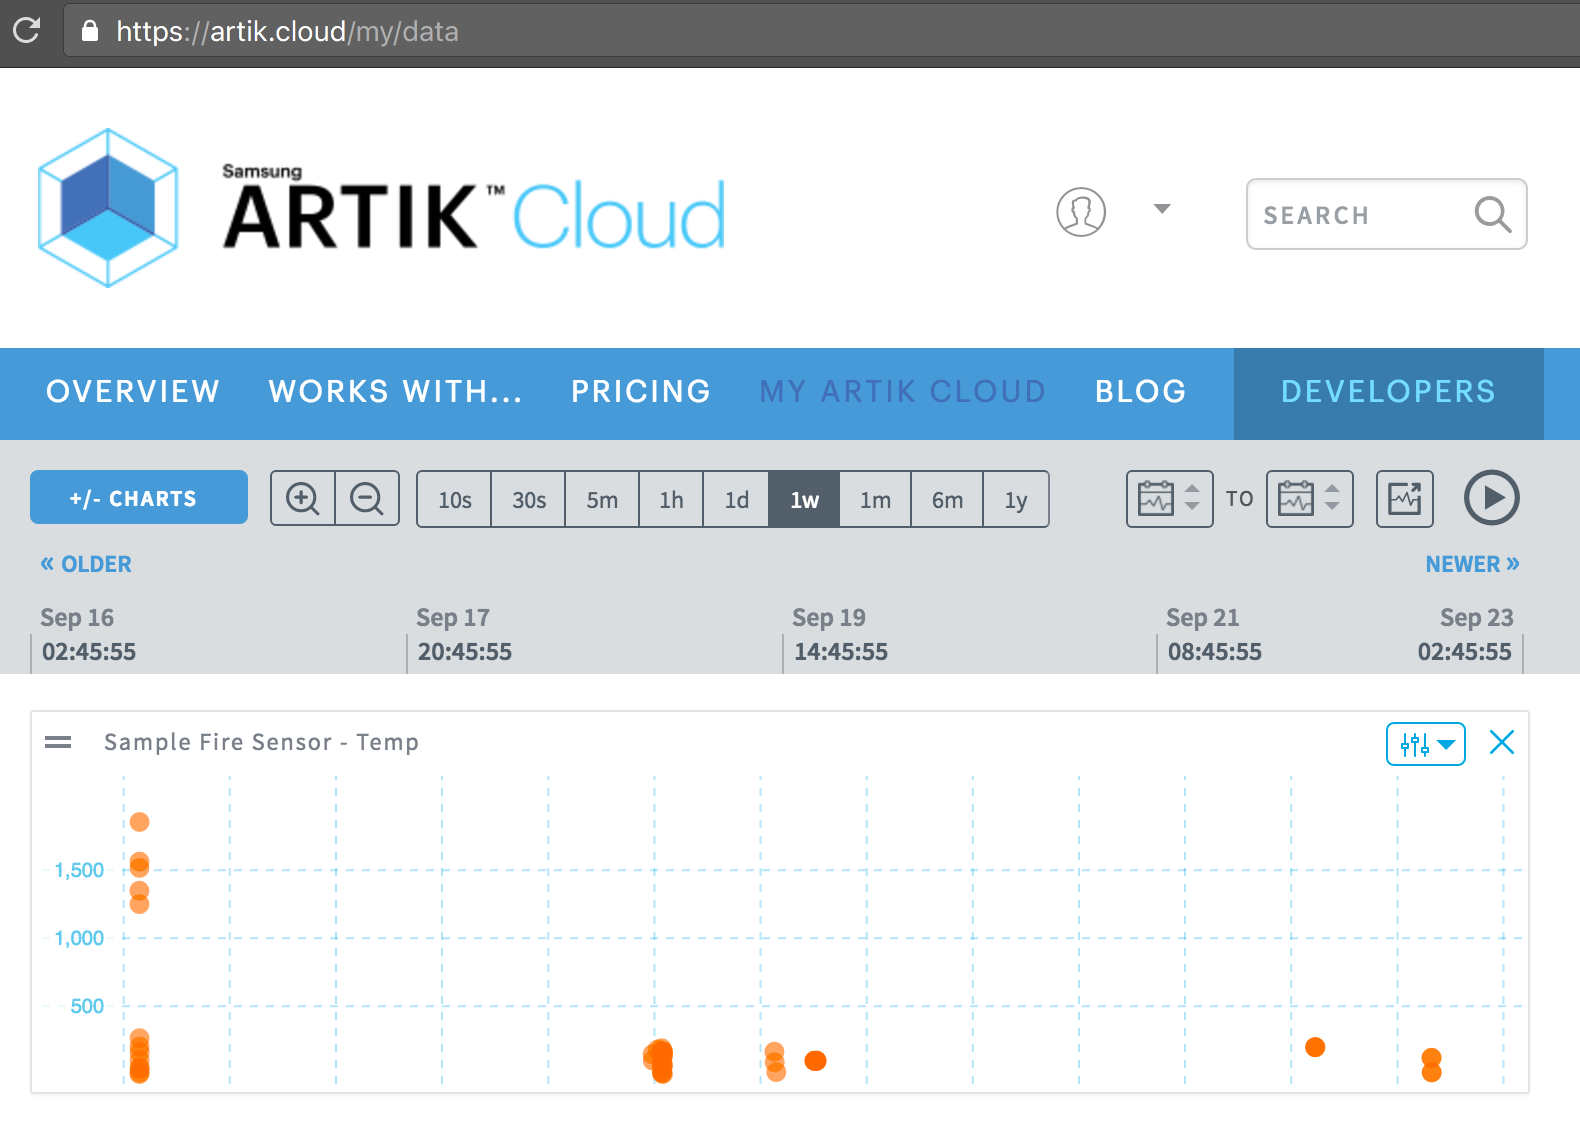
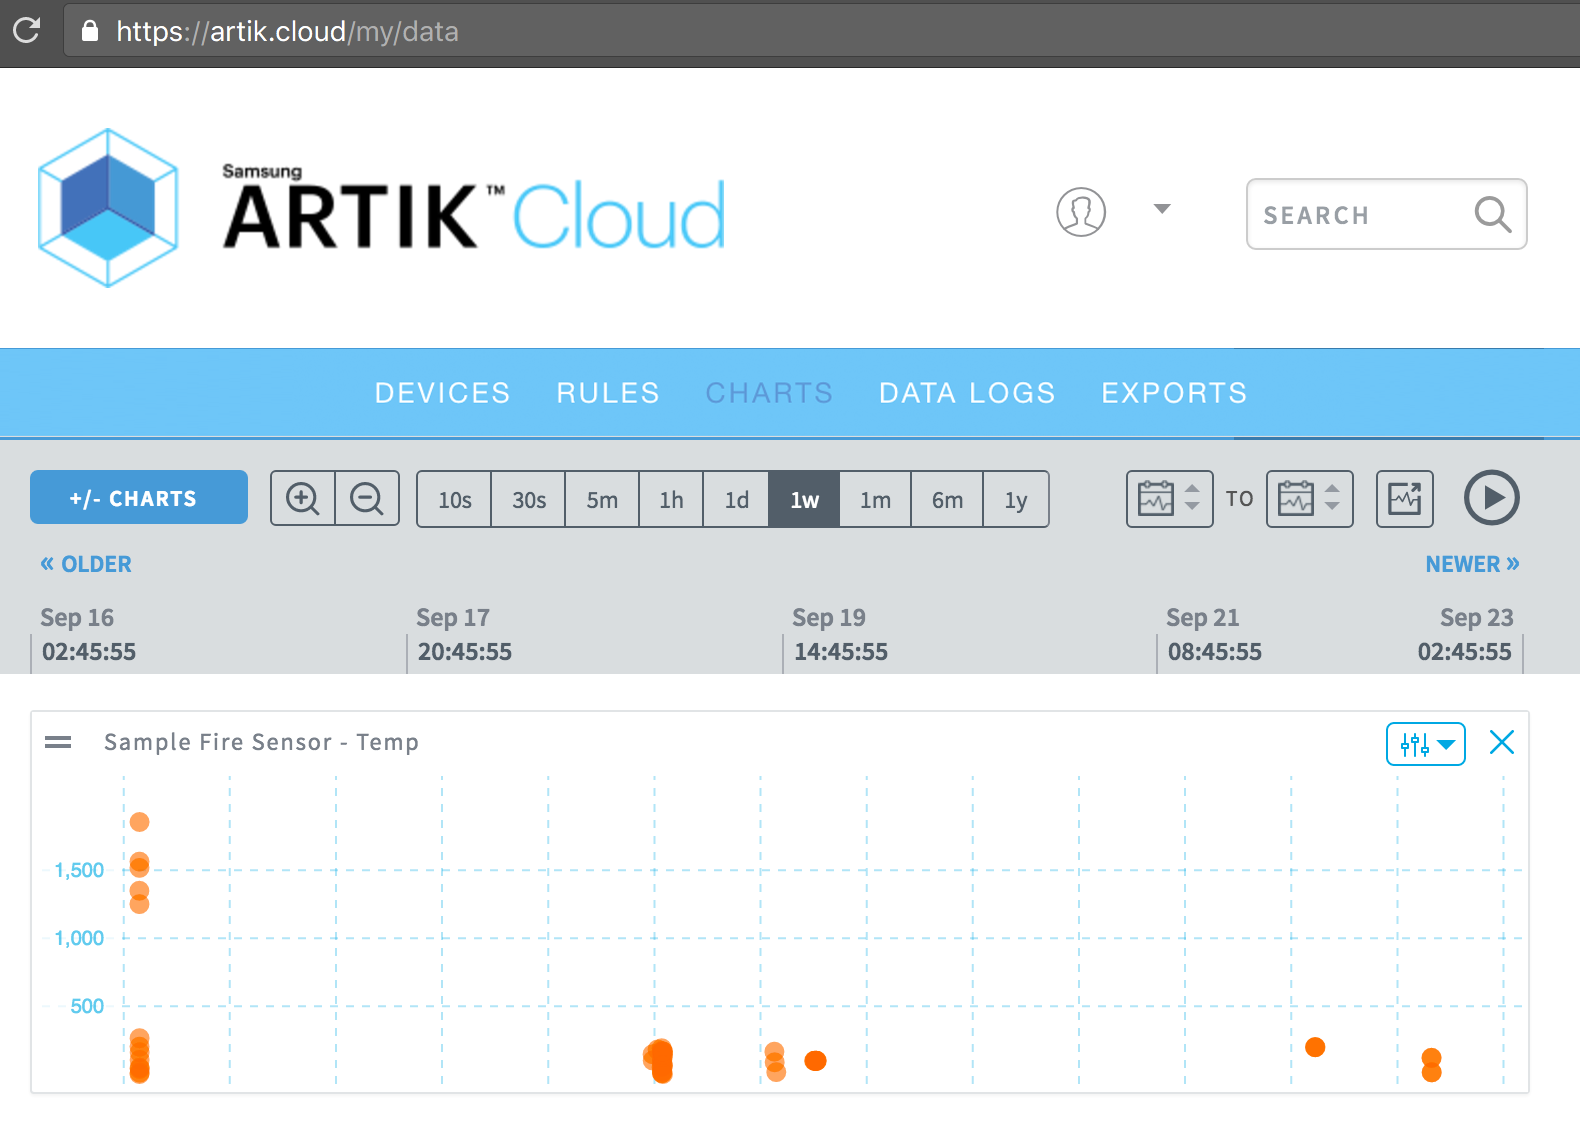
update readme and screenshot

Changed region(s): [[0.0, 0.3059, 1.0, 0.3977]]

diff --git a/readme.md b/readme.md
@@ -2,48 +2,63 @@
 
 This is a Node.js sample code to send and get a message to and from ARTIK Cloud using the [ARTIK Cloud Javascript SDK](https://github.com/artikcloud/artikcloud-js)
 
-### Prerequisites
+## Requirements
 * [Node.js](https://nodejs.org/en/) 
 * [npm](https://www.npmjs.com/get-npm) (Installed with Node.js)
 * [ARTIK Cloud Javascript SDK](https://github.com/artikcloud/artikcloud-js)
 
-### Setup / Installation:
-
-Check you have Node.js installed:
+Run the following commands to make check Node.js and npm are installed:
 
 ```
-node -v
+$ node -v
+v6.5.0
 ```
 
-Check you have npm installed:
-
 ```
-npm -v
+$ npm -v
+3.10.3
 ```
 
-Setup ARTIK Cloud:
+## Setup
 
-  1. Sign into [My ARTIK Cloud](https://artik.cloud/)
-  2. [Connect a new device](https://my.artik.cloud/new_device/cloud.artik.sample.demofiresensor?device_name=Demo+Fire+Sensor) by adding the [Demo Fire Sensor](https://my.artik.cloud/new_device/cloud.artik.sample.demofiresensor?device_name=Demo+Fire+Sensor) into your account.
-  3. Click the Settings icon of the device you just added.  Note the **device ID** and **device token** for later. Click "Generate Device Token" if needed.
+#### **Setup at ARTIK Cloud:**
+
+1. Sign into [My ARTIK Cloud](https://artik.cloud/)
+2. [Connect a new device](https://my.artik.cloud/new_device/cloud.artik.sample.demofiresensor?device_name=Demo+Fire+Sensor) and add the [Demo Fire Sensor](https://my.artik.cloud/new_device/cloud.artik.sample.demofiresensor?device_name=Demo+Fire+Sensor) into your account.
+3. Click the Settings icon of the device you just added.  Note the **device ID** and **device token** for later. Click "Generate Device Token" if needed.
 
 
-Setup Code:
+#### **Setup project**:
 
-  1. Add your **device ID** and **device token** to the config.json file.
-  2. Install the artikcloud-js library by typing the following command:
+Before running the sample, fill in the following into your the `config.json` file:
+
+```son
+{
+    "device_id": "YOUR_DEVICE_ID",
+    "device_token": "YOUR_DEVICE_TOKEN"
+}
+```
+
+#### **Install dependencies:**
 
  ```javascript
- npm install artikcloud-js --save
+$ npm install artikcloud-js --save
  ```
 
+#### **Run project:**
 
-## Run the code
+```
+$ node send-message.js
+```
 
-Run `send-message.js` file to send a message to your device.   This will send a random temperature value to ARTIK Cloud on behalf of the device.  
+## Demo
+
+#### 1. Send a message
+
+   Run `send-message.js` to send a message to ARTIK Cloud from the device.   In this sample, each message will send a random temperature value.
 
 ```javascript
-%> node send-message.js
+$ node send-message.js
 
 > Making API call with data: 
 {"data":{"temp":"50.4"},"sdid":"a12345f ..."}
@@ -52,26 +67,25 @@ Run `send-message.js` file to send a message to your device.   This will send a 
 If sending goes well, you receive a response with a message id (mid).   ARTIK Cloud uses this response to acknowledge the receipt of the message as shown below.
 
 ```javascript
-// < API Response:
-{ 
-  "data": {
-    "mid": "a9b4982c708540cd9742adddef902c15"
-  }
-}
+{ "data": { "mid": "a9b4982c708540cd9742adddef902c15"}}
 ```
 
-Run `get-message.js` to get the last message sent to your device.
+#### 2. Get a message
+
+   Run `get-message.js` to get the last message sent by your device.
 
 
 ```javascript
-%> node get-message.js
+$ node get-message.js
 
 > Making API call with data:
 {"count":1,"sdids":"a12345f ..."}
 ```
 
+Below is the response. It has a 'temp' value of 50.4 that was sent earlier.
+
+
 ```javascript
-// < API Response:
 { 
   "count": 1,
   "size": 1,
@@ -85,7 +99,7 @@ Run `get-message.js` to get the last message sent to your device.
       "uid": "u12345f ... ",
       "mv": 1,
       "data": {
-        "temp": 10
+        "temp": 50.4
       }
     }
   ],
@@ -93,12 +107,11 @@ Run `get-message.js` to get the last message sent to your device.
 }
 ```
 
-Note above there is a **temp** value that was sent to the device earlier.
 
+#### 3. View your data in My ARTIK Cloud
 
-## View your data in My ARTIK Cloud
-
-Have you visited ARTIK Cloud [data visualization tool](https://artik.cloud/my/data)?  Select your device from the charts to view your device data in realtime. 
+- Visit the [Data Logs](https://my.artik.cloud/messages) in your user dashboard at https://my.artik.cloud
+- Visit the [Charts](https://my.artik.cloud/data) in your user dashboard at https://my.artik.cloud
 
 ![Screenshot](./images/screenshot-firesensor-datachart.png)
 
@@ -116,7 +129,7 @@ If you are not familiar with ARTIK Cloud, we have extensive documentation at htt
 
 The full ARTIK Cloud API specification can be found at https://developer.artik.cloud/documentation/api-reference/
 
-Peek into advanced sample applications at https://developer.artik.cloud/documentation/samples/
+Peek into advanced sample applications at [https://developer.artik.cloud/documentation/tutorials/code-samples](https://developer.artik.cloud/documentation/tutorials/code-samples/)
 
 To create and manage your services and devices on ARTIK Cloud, visit the Developer Dashboard at https://developer.artik.cloud
 
